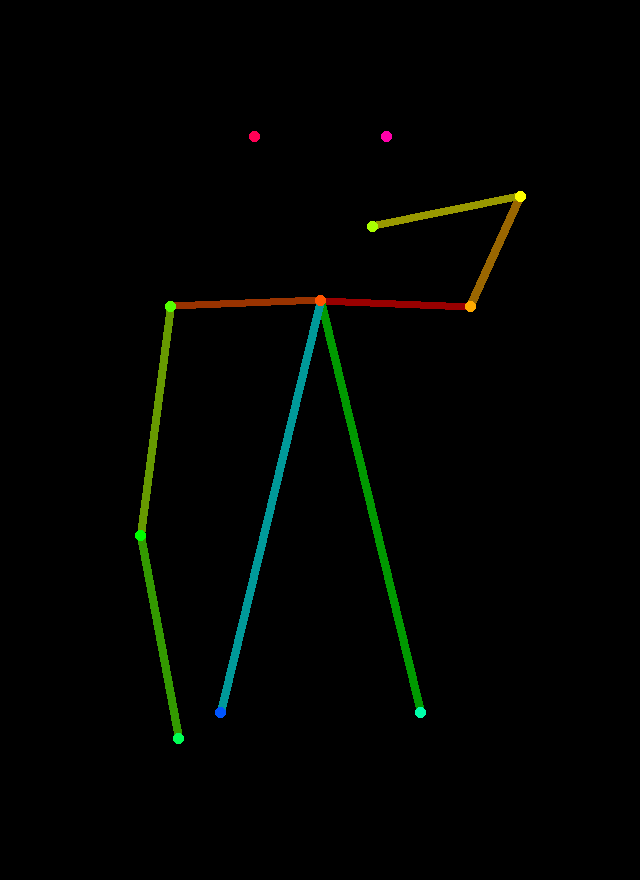
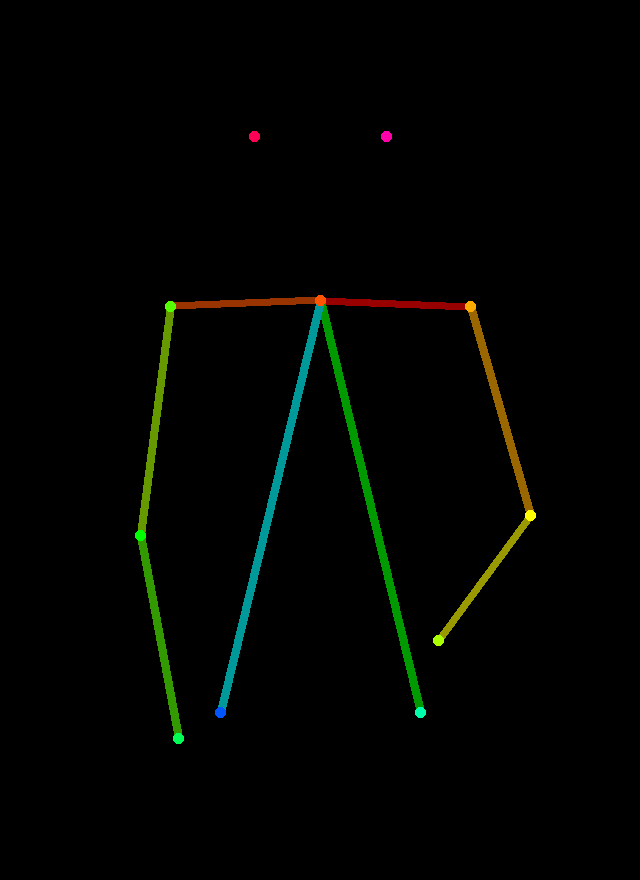
Models: three relaxed poses in; light-trouser photos out (broken black hem), checked; plainer category names
Claude-Session: https://claude.ai/code/session_0137kCTX5DYSJbTcNKd7SgjX

diff --git a/tests/catalog.test.ts b/tests/catalog.test.ts
@@ -60,7 +60,7 @@ describe("generated catalog (data/shirts.json)", () => {
 
   it("Part 4: the brand book's ten categories, in its order, each with depth and none swamping the shop", () => {
     expect([...SHIRT_CATEGORIES]).toEqual(["photographs", "specimens", "sky", "architecture", "etched", "brush", "pattern", "systems", "type", "terminal"]);
-    expect(SHIRT_CATEGORIES.map((c) => CATEGORY_LABELS[c])).toEqual(["Photographs", "Plates & Specimens", "Maps & Sky", "Architecture", "Etched & Cut", "Brush & Woodblock", "Pattern", "Systems & Op Art", "Type", "Terminal"]);
+    expect(SHIRT_CATEGORIES.map((c) => CATEGORY_LABELS[c])).toEqual(["Photographs", "Botanical & Nature", "Maps & Sky", "Architecture", "Engravings", "Brush & Woodblock", "Pattern", "Geometric", "Type", "ASCII & Code"]);
     expect(SHIRT_CATEGORIES.map((c) => SKU_CODES[c])).toEqual(["PHO", "SPC", "MAP", "ARC", "ETC", "BRU", "PAT", "SYS", "TYP", "TRM"]);
     for (const c of SHIRT_CATEGORIES) {
       const count = SHIRTS.filter((s) => s.category === c).length;
@@ -87,7 +87,7 @@ describe("generated catalog (data/shirts.json)", () => {
     expect(displayCategory("archive", "archive-ukiyo-e")).toBe("brush");
     expect(displayCategory("archive", "archive-patent")).toBe("photographs");
     expect(displayCategory("archive", "archive-stencil")).toBe("pattern");
-    // An etching is Etched & Cut, unless it shows a building or a city.
+    // An etching is Engravings, unless it shows a building or a city.
     expect(displayCategory("archive", "archive-etching", "Evening on the River")).toBe("etched");
     expect(displayCategory("archive", "archive-etching", "The Arch of Marcus Aurelius")).toBe("architecture");
     // In the data: every drawn template sits in one category (archive groups split off their buildings).

diff --git a/tests/colors.test.tsx b/tests/colors.test.tsx
@@ -163,6 +163,19 @@ describe("T2: the tee worn — model photos", () => {
     }
   });
 
+  it("no model wears light trousers (they merge with a white tee: the black twin's hem got a white band or dark patches)", async () => {
+    const { MODEL_PHOTOS } = await import("@/lib/models");
+    const sharp = (await import("sharp")).default;
+    for (const m of MODEL_PHOTOS.filter((p) => p.color === "white")) {
+      // The seat of the trousers: the bottom centre of the photo.
+      const { data, info } = await sharp(`public/models/${m.id}.webp`).greyscale().raw().toBuffer({ resolveWithObject: true });
+      let sum = 0, n = 0;
+      for (let y = Math.floor(info.height * 0.92); y < info.height; y++)
+        for (let x = Math.floor(info.width * 0.4); x < Math.floor(info.width * 0.6); x++) (sum += data[y * info.width + x]), n++;
+      expect(sum / n / 255, m.id).toBeLessThan(0.36);
+    }
+  });
+
   it("the mockup is one picture of the print on that colour's photo (baked at build time, never blended on the page)", () => {
     const { container } = render(<TeeMockup shirt={both} color="black" sizes="300px" />);
     const imgs = [...container.querySelectorAll("img")];

diff --git a/types/shirt.ts b/types/shirt.ts
@@ -91,15 +91,15 @@ export type ShirtCategory = (typeof SHIRT_CATEGORIES)[number];
 
 export const CATEGORY_LABELS: Record<ShirtCategory, string> = {
   photographs: "Photographs",
-  specimens: "Plates & Specimens",
+  specimens: "Botanical & Nature",
   sky: "Maps & Sky",
   architecture: "Architecture",
-  etched: "Etched & Cut",
+  etched: "Engravings",
   brush: "Brush & Woodblock",
   pattern: "Pattern",
-  systems: "Systems & Op Art",
+  systems: "Geometric",
   type: "Type",
-  terminal: "Terminal",
+  terminal: "ASCII & Code",
 };
 
 /** SKU code per category: MN-<code>-<B|W>-<n>. */

diff --git a/e2e/loading.spec.ts b/e2e/loading.spec.ts
@@ -11,7 +11,7 @@ test("V3: switching categories never shows a tee without its print — one baked
   });
   await page.goto("shop/");
   await hydrated(page);
-  await pickCategories(page, ["Etched & Cut"]);
+  await pickCategories(page, ["Engravings"]);
   // Sample the grid while it loads: a mockup is one picture — the print can't arrive apart from the tee.
   for (let i = 0; i < 12; i++) {
     const counts = await page.locator('main [role="img"]').evaluateAll((els) => els.map((el) => el.querySelectorAll("img").length));

diff --git a/scripts/models/poses.py b/scripts/models/poses.py
@@ -6,7 +6,7 @@ prompt (in pockets, hanging loose). Wider shoulders and hips than the first
 pose (pose-a, taken from a slim model), and a few natural stances instead of
 one stiff, mirror-symmetric one.
 
-  python scripts/models/poses.py        # writes poses/pose-b.png … pose-l.png
+  python scripts/models/poses.py        # writes poses/pose-b.png … pose-k.png
 """
 import os
 from PIL import Image, ImageDraw
@@ -38,25 +38,18 @@ POSES = {
     # at attention. Each arm does something different; a hand in front of the body is left out (hidden from behind).
     # Right hand in the front pocket, the left forearm forward (holding a coffee).
     "pose-g": base({3: (522, 510), 4: (430, 680), 6: (140, 525)}),
-    # Thumbs hooked in the back pockets, elbows out (the hands sit below the print).
-    "pose-h": base({3: (532, 540), 4: (404, 722), 6: (108, 540), 7: (236, 722)}),
-    # Right hand at the back of the neck, elbow up; the left arm loose, a little out.
-    "pose-i": base({3: (520, 196), 4: (372, 226), 6: (140, 535), 7: (178, 738)}),
-    # Arms folded in front: only the elbows show, out to the sides.
-    "pose-j": base({2: (470, 312), 5: (170, 300), 8: (420, 704), 11: (220, 720), 3: (505, 560), 6: (135, 560)}),
+    # Right hand resting on the hip, elbow out; the left arm loose, a little out.
+    # (A hand raised to the neck looked put on; thrown away: thumbs in the back pockets — came out as hands
+    # clasped behind the back, twisted —, arms folded — read as reaching forward —, a phone — the hands odd.)
+    "pose-i": base({3: (530, 515), 4: (438, 640), 6: (140, 535), 7: (178, 738)}),
     # Mid-stride: the right arm swung back and out, the left forward (hand hidden).
     "pose-k": base({2: (470, 300), 5: (170, 312), 3: (516, 520), 4: (548, 700), 6: (146, 520), 7: (196, 680)}),
-    # Left thumb in the front pocket; the right forearm raised forward (checking a phone).
-    "pose-l": base({3: (508, 545), 6: (118, 510), 7: (210, 680)}),
 }
 # What each relaxed pose's arms are doing, said in the prompt (no hand keypoints: the words place the hands).
 ARMS = {
     "pose-g": "right hand in pocket, holding a coffee cup in his left hand",
-    "pose-h": "thumbs hooked in his back pockets",
-    "pose-i": "right hand on the back of his neck",
-    "pose-j": "arms casually folded",
+    "pose-i": "right hand resting on his hip, left arm relaxed",
     "pose-k": "walking away mid-stride, arms swinging",
-    "pose-l": "looking at a phone in his right hand, left thumb in pocket",
 }
 
 def draw(k):

diff --git a/scripts/models/jobs.py b/scripts/models/jobs.py
@@ -133,17 +133,18 @@ for k, (man, trousers, pose, setting) in enumerate(FIFTH):
 TEES6 = ["heavyweight plain white short-sleeved cotton t-shirt, smooth", "heavyweight plain white short-sleeved cotton t-shirt, boxy fit, smooth"]
 SIXTH = [
   ("a well-built man with a taper fade and short beard", "dark jeans", "pose-g", "city sidewalk with cafes, blurred"),
-  ("a broad young Black man with short neat twists, tattooed forearms", "black chinos", "pose-h", "art gallery with paintings, blurred"),
+  ("a broad young Black man with short neat twists, tattooed forearms", "black chinos", None, "art gallery with paintings, blurred"),
   ("a solid man with short salt-and-pepper hair", "navy trousers", "pose-i", "seaside cliff path, blue sea, overcast"),
-  ("a stocky East Asian man with a short textured fringe", "olive chinos", "pose-j", "train station platform, blurred"),
+  ("a stocky East Asian man with a short textured fringe", "olive chinos", None, "train station platform, blurred"),
   ("a tall athletic Latino man with a neat buzz cut, a forearm tattoo", "mid-blue jeans", "pose-k", "tree-lined city park path"),
-  ("a well-built red-haired man with a tidy crop and short beard", "charcoal jeans", "pose-l", "bookshop street, blurred"),
+  ("a well-built red-haired man with a tidy crop and short beard", "charcoal jeans", None, "bookshop street, blurred"),
 ]
 NEG_SIXTH = ("tank top, sleeveless, shoulder blades, bony back, thin fabric, harsh shadows, wrinkled shirt, slouching, stiff pose, standing at attention, "
   "military posture, arms straight down, skinny, plastic skin, cgi, face, profile, looking at camera, jacket, hoodie, white pants, shorts, logo, print, text, grey shirt, deformed")
 POSE_NAMES = sorted(f[:-4] for f in os.listdir(os.path.join(os.path.dirname(os.path.abspath(__file__)), "poses")))  # generate.py's order
 for k, (man, trousers, pose, setting) in enumerate(SIXTH):
     i = len(MEN) + len(MORE) + len(THIRD) + len(FOURTH) + len(FIFTH) + k
+    if pose is None: continue  # thrown away with its pose (poses.py); the id is not reused
     assert pose in ARMS, f"m{i:02d}: {pose} is an arms-down stance (looks like standing at attention); take a relaxed one: {', '.join(ARMS)}"
     jobs.append({"id": f"m{i:02d}", "color": "white", "seed": 3100 + i * 47, "steps": 8, "pose": POSE_NAMES.index(pose), "pose_name": pose, "guidance": 1.8, "neg": NEG_SIXTH, "min_tone": 0.52,
       "prompt": f"{TEES6[k % 2]}, back view, {man}, {ARMS[pose]}, {trousers}, {setting}, lookbook photo, soft overcast light"})

diff --git a/scripts/models/checks.py b/scripts/models/checks.py
@@ -11,7 +11,8 @@ photo that was thrown away:
 - sleeves: the tee covers the shoulders out to the upper arms — a tank top
   shows skin there (the shop sells tees only).
 - trousers: light trousers merge with a white tee (its hem can't be found,
-  and the black twin gets a white band); dark or mid tones only.
+  and the black twin gets a white band or dark patches on the trousers); dark
+  or mid tones only (0.62 let through light grey and stone ones that did).
 """
 import numpy as np
 
@@ -64,5 +65,5 @@ def reason(m, j):
     if (white and m["tone"] < j.get("min_tone", 0.6)) or (not white and m["tone"] > 0.22): return f"tee tone {m['tone']:.2f}"
     if white and m["tint"] > 0.08: return f"tee tinted {m['tint']:.2f}"
     if m["sleeves"] < 0.5: return f"no sleeves {m['sleeves']:.2f}"
-    if white and m["trousers"] > 0.62: return f"light trousers {m['trousers']:.2f}"
+    if white and m["trousers"] > 0.4: return f"light trousers {m['trousers']:.2f}"
     return None

diff --git a/README.md b/README.md
@@ -24,15 +24,15 @@ Generator modules: `scripts/gen/core.ts` (randomness, geometry, contracts) · `l
 | Category (SKU) | What's in it |
 | --- | --- |
 | **Photographs** (PHO) | animals, aircraft, engines and instruments (Smithsonian National Zoo, Air and Space Museum) and patent models, cut out and screened as one-ink halftones |
-| **Plates & Specimens** (SPC) | botanical studies and Audubon plates from the archive; seed heads and plants grown by rule |
+| **Botanical & Nature** (SPC) | botanical studies and Audubon plates from the archive; seed heads and plants grown by rule |
 | **Maps & Sky** (MAP) | constellations on their real stars; the night sky over real places on real dates; moon phases, planets on a date, the analemma, daylight, Halley's orbit, Jupiter's moons |
 | **Architecture** (ARC) | etched views of buildings and cities; arch constructions, brick bonds, trusses, Vignola's orders, the Modulor; façade and skyline drawings |
-| **Etched & Cut** (ETC) | etchings, engravings and woodcuts from the archive (Dürer, Piranesi, Whistler, Hollar, Haden, Meryon, Rembrandt among them) |
+| **Engravings** (ETC) | etchings, engravings and woodcuts from the archive (Dürer, Piranesi, Whistler, Hollar, Haden, Meryon, Rembrandt among them) |
 | **Brush & Woodblock** (BRU) | East Asian ink painting; Hokusai and Hiroshige woodblock prints |
 | **Pattern** (PAT) | lace, ornament prints and katagami stencils; guilloche, star rosettes, khatam tiles, Truchet tiles |
-| **Systems & Op Art** (SYS) | halftone and moiré studies, Lissajous and harmonograph curves, attractors; standard circuits, logic gates, instrument dials, slide-rule scales, the Smith chart, Platonic solids, the golden spiral |
+| **Geometric** (SYS) | halftone and moiré studies, Lissajous and harmonograph curves, attractors; standard circuits, logic gates, instrument dials, slide-rule scales, the Smith chart, Platonic solids, the golden spiral |
 | **Type** (TYP) | real data set in type: the Beaufort scale, the shipping forecast, spelling and Greek alphabets, Morse, the periodic table, computed digits of π, e, √2 and φ, SI units, and more |
-| **Terminal** (TRM) | ASCII art and the ASCII table, punched cards in IBM 029 code, ITA2 paper tape, seven segments, a dot-matrix alphabet, escape codes, signals, HTTP status codes |
+| **ASCII & Code** (TRM) | ASCII art and the ASCII table, punched cards in IBM 029 code, ITA2 paper tape, seven segments, a dot-matrix alphabet, escape codes, signals, HTTP status codes |
 
 ### Photographs
 

diff --git a/scripts/models/README.md b/scripts/models/README.md
@@ -20,7 +20,8 @@ Enforced in code, so a run never wastes time on them:
 | Sunset, dusk, golden or back light tints a white tee beige or darkens it | `jobs.py` rule: no such light; `checks.py` tone and tint |
 | Without "short-sleeved" some come out in tank tops (the shop sells tees) | `jobs.py` rule; `checks.py` sleeves |
 | Arms down on every photo (the lookbook stances) looks like standing at attention | `poses.py`: relaxed poses g–l, each arm doing something; `jobs.py`: the sixth set on takes only those, its arms in the prompt, no pose twice before all are used |
-| Light trousers merge with a white tee | `checks.py` trousers |
+| Hands behind the back came out twisted; folded arms read as reaching forward; a phone and a hand raised to the neck looked put on | `poses.py`: those poses removed (hand on the hip instead of at the neck) |
+| Light trousers merge with a white tee (a white band or dark patches at the black twin's hem; light grey and stone ones too) | `checks.py` trousers, at most 0.4 |
 | A broad man framed like a slim one needs more than the picture (mirror-filled: a second head) | `analyze.py`: the shoulders take more of the width, the print box follows |
 | The clothing model stops short of a loose tee's hem (a white band on the black twin) | `analyze.py`: the white cloth below it counts as tee |
 
